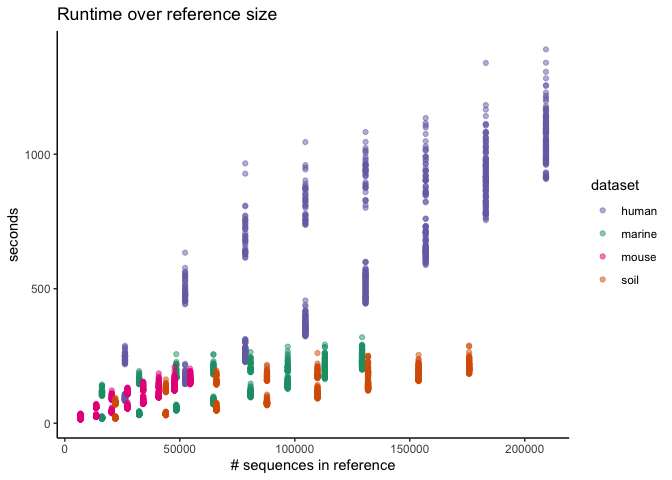
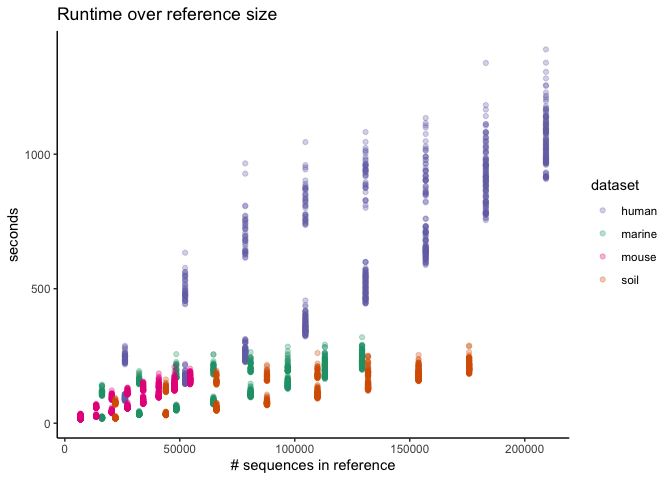
Update plots with 10 seeds & 8 ref fracs

diff --git a/exploratory/2020/sub3_fit_subsets.md b/exploratory/2020/sub3_fit_subsets.md
@@ -65,7 +65,7 @@ runtime <- full_join(
   read_tsv(here('subworkflows/3_fit_sample_subset/results/input_sizes.tsv'))
   )
 runtime %>% ggplot(aes(x=num_ref_seqs, y=s, color=dataset)) +
-  geom_point(alpha = 0.5) +
+  geom_point(alpha = 0.3) +
   scale_color_manual(values = dataset_colors) +
   labs(title = 'Runtime over reference size',
        x = '# sequences in reference',
@@ -75,15 +75,18 @@ runtime %>% ggplot(aes(x=num_ref_seqs, y=s, color=dataset)) +
 ![](figures/runtime_ref_size-1.png)<!-- -->
 
 ``` r
-runtime %>% ggplot(aes(x=num_sample_seqs, y=s, color=dataset)) +
+runtime %>% 
+  mutate(num_total_seqs = num_ref_seqs + num_sample_seqs) %>% 
+  ggplot(aes(x=num_total_seqs, y=s, color=dataset)) +
   geom_point(alpha = 0.5) +
   scale_color_manual(values = dataset_colors) +
-  labs(title = 'Runtime over sample size',
-       x = '# sequences in sample',
+  xlim(0, 300000) +
+  labs(title = 'Runtime over sample + reference size',
+       x = '# sequences total',
        y = 'seconds')
 ```
 
-![](figures/runtime_sample_size-1.png)<!-- -->
+![](figures/runtime_total_size-1.png)<!-- -->
 
 ## Fraction of sequences that map to the reference
 
@@ -91,7 +94,7 @@ runtime %>% ggplot(aes(x=num_sample_seqs, y=s, color=dataset)) +
 fractions <- read_tsv(here('subworkflows/3_fit_sample_subset/results/fraction_reads_mapped.tsv'))
 fractions %>% 
   group_by(dataset, ref_weight, ref_frac) %>% 
-  ggplot(aes(x=ref_frac, y=fraction_mapped, color=dataset)) +
+  ggplot(aes(x=ref_frac, y=fraction_mapped, color=dataset, shape=ref_weight)) +
   geom_jitter(alpha = 0.5, width = 0.01, size=1) +
   scale_color_manual(values = dataset_colors) +
   facet_wrap("ref_weight") +
